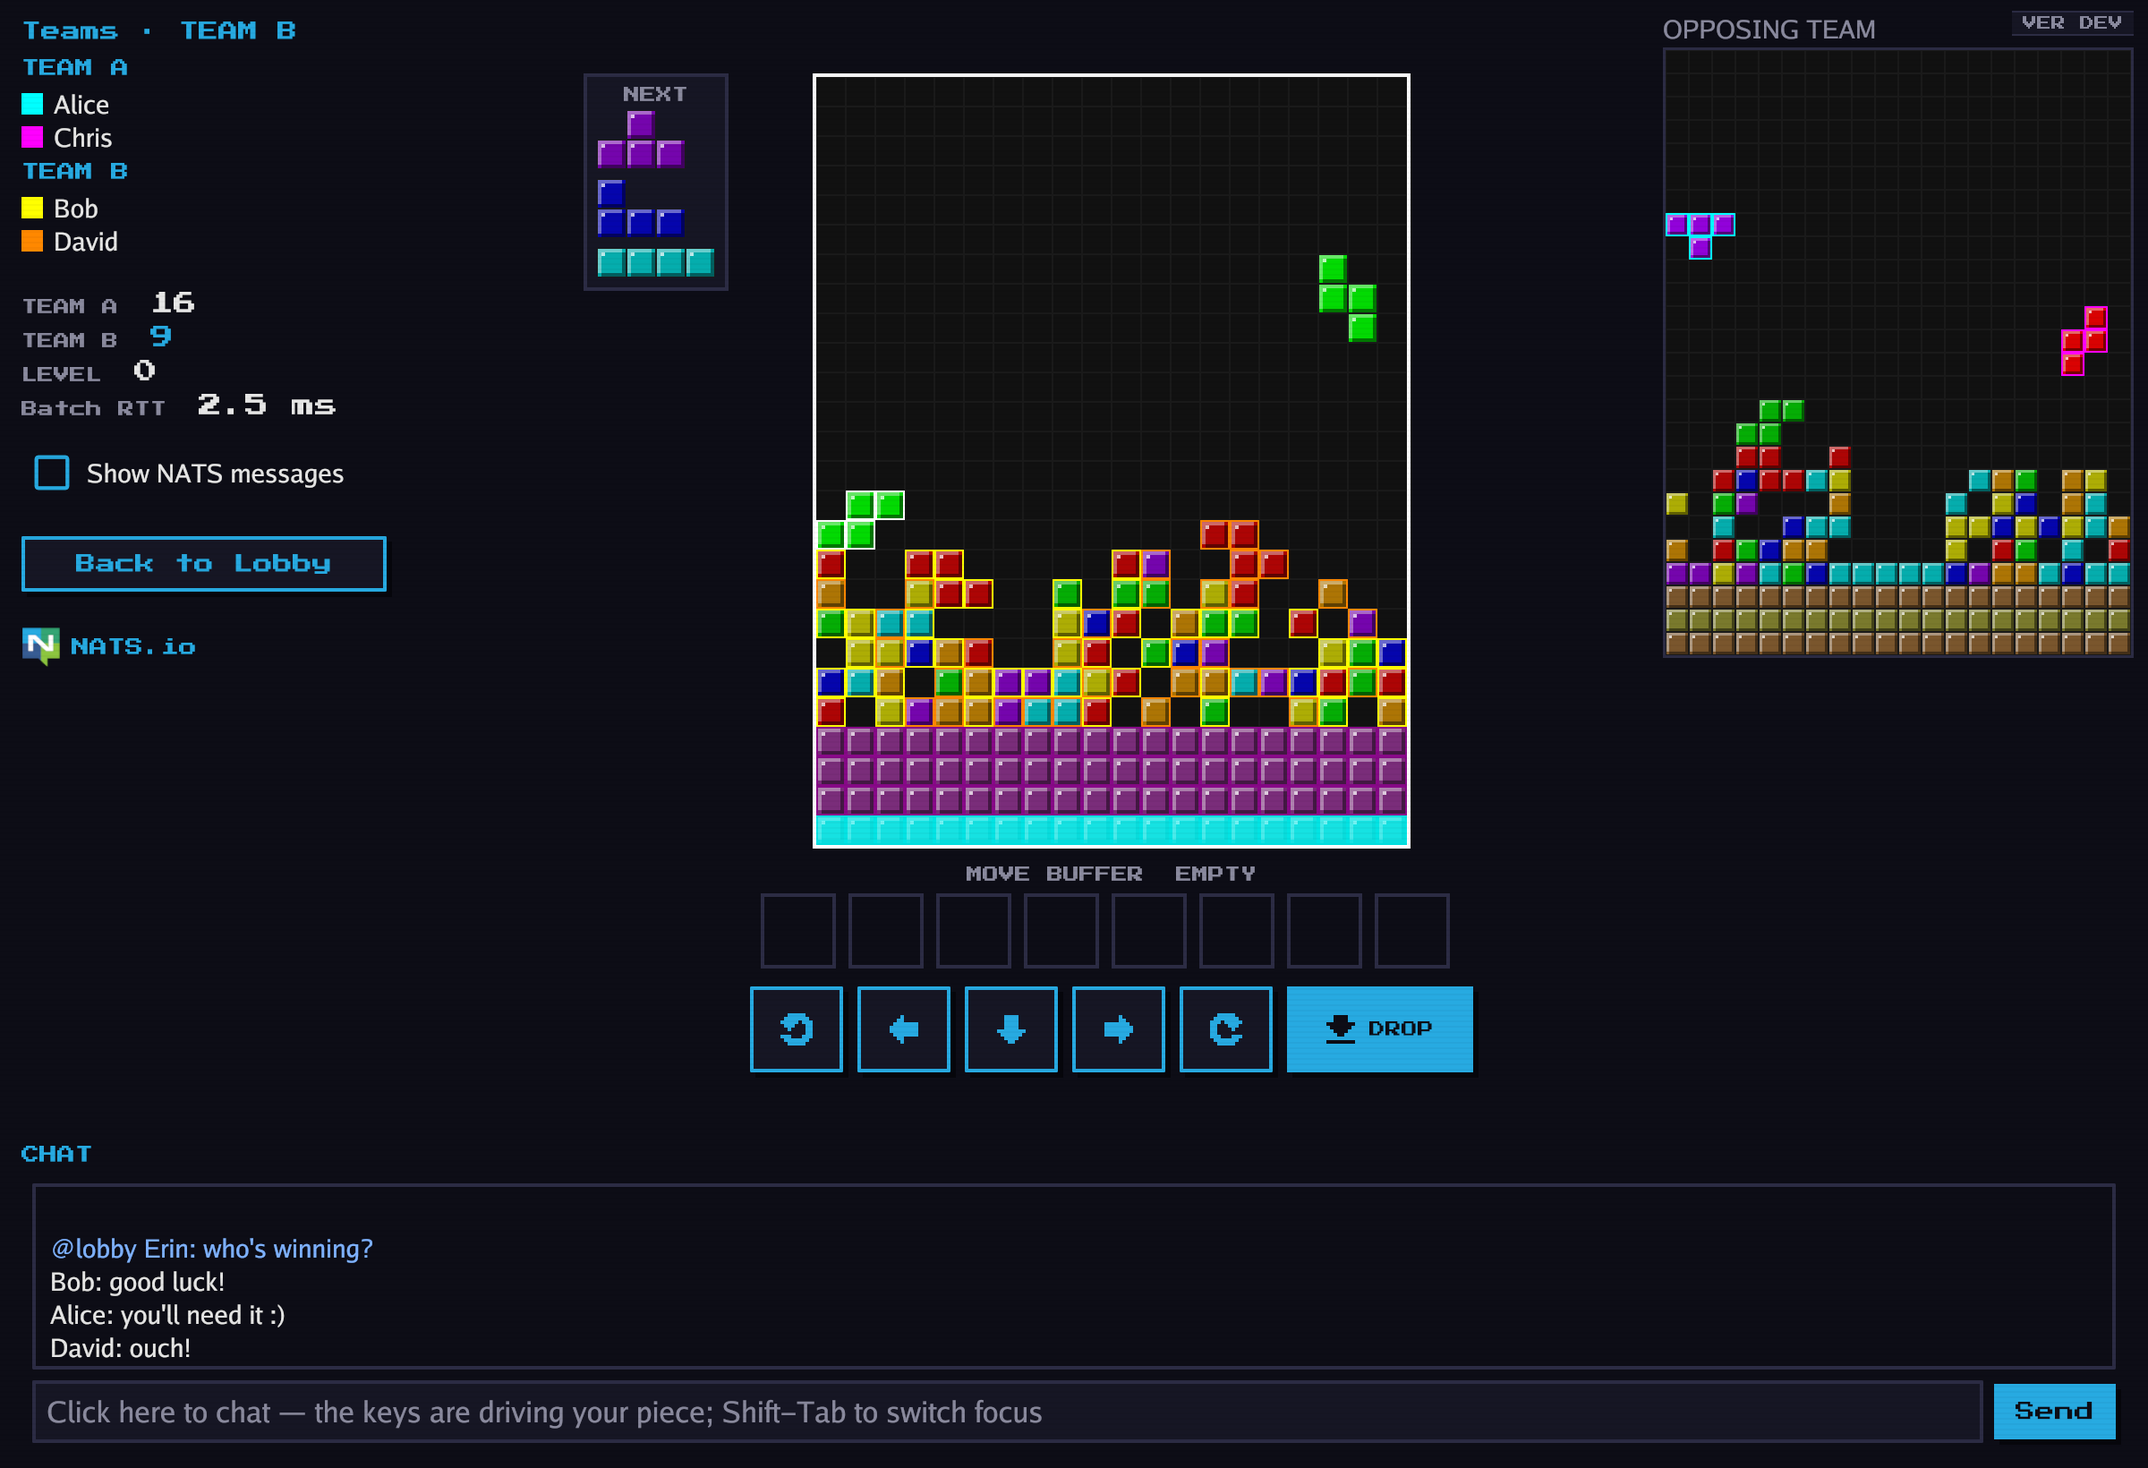
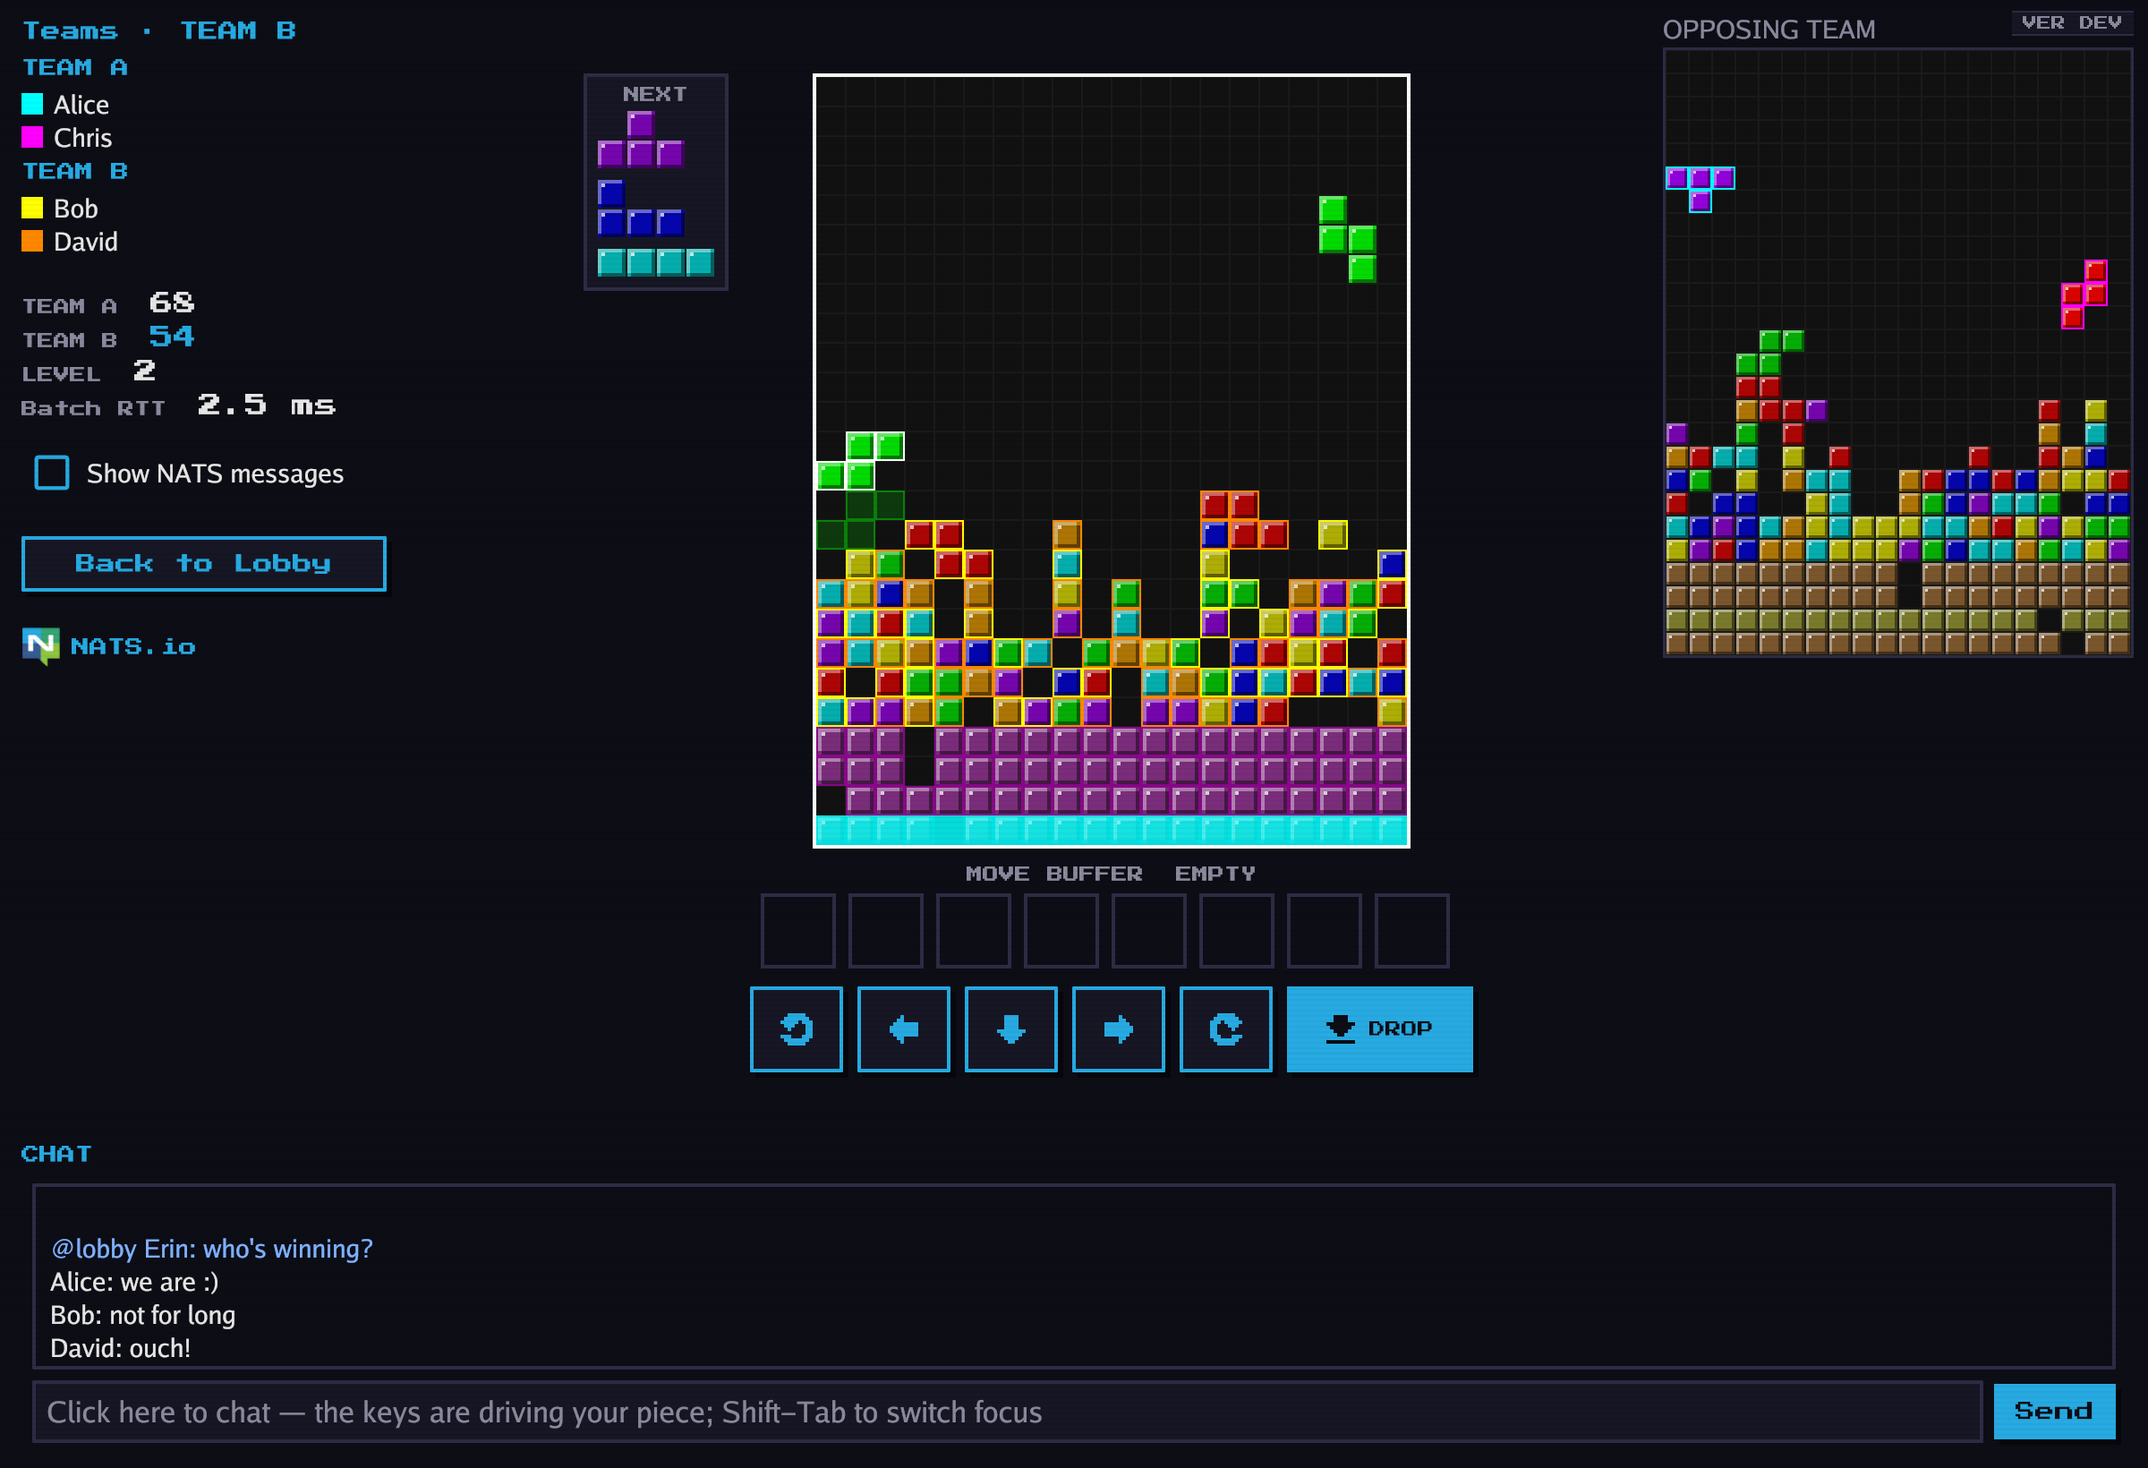
Update README screenshots

diff --git a/internal/nativeui/readme_screenshots_test.go b/internal/nativeui/readme_screenshots_test.go
@@ -1,13 +1,16 @@
 package nativeui
 
-// Opt-in README screenshot capture: runs a REAL 2v2 teams game against an
-// embedded JetStream server (four player engines plus a spectator, live
-// gravity, pre-filled stacks and garbage rows published cell by cell, a fresh
-// garbage row delivered through the real register → gated-shrink protocol)
+// Opt-in README screenshot capture: runs a REAL 2v2 teams game with
+// Guideline-style garbage — one hole per garbage row, clean (the rows of one
+// raise share their hole column, so a raise's holes line up into a well) and
+// attacks by the Guideline table — against an embedded JetStream server
+// (four player engines plus a spectator, live gravity, pre-filled stacks and
+// garbage raises published cell by cell, a fresh garbage row delivered
+// through the real register → gated-shrink protocol that punches its hole)
 // and renders the spectator and player game screens at 2x via a headless GPU
-// window, frozen on the moment Team A clears a line and Team B receives the
-// garbage row that clear sends. Skipped unless FW_SNAPSHOT_DIR is set (needs a
-// GPU):
+// window, frozen on the moment Team A clears a double and the garbage row
+// that clear sends lands on Team B. Skipped unless FW_SNAPSHOT_DIR is set
+// (needs a GPU):
 //
 //	FW_SNAPSHOT_DIR=. go test ./internal/nativeui/ -run TestCaptureREADMEScreenshots
 //
@@ -42,14 +45,32 @@ import (
 
 const shotW, shotH = 2400, 1640 // 1200x820 dp at 2x for crisp README images
 
-// The staged moment: Alice (team A, player 0) has just dropped an I piece flat
-// into the 4-wide slot at clearCol, completing the row right above team A's
-// garbage. That row strobes white on team A's board while the garbage row her
-// clear sends lands — and strobes in her color — on team B's board.
+// The staged moment: Alice (team A, player 0) has just dropped an O piece
+// into the two-wide, two-deep slot at clearCol, completing the two rows right
+// above team A's garbage — a double, the smallest clear that attacks under
+// the Guideline table (a single sends nothing). Both rows strobe white on
+// team A's board while the garbage row her double sends lands — and strobes
+// in her color — on team B's board.
 const (
-	clearCol   = 8 // first column of the slot the I piece drops into
-	clearWidth = 4
+	clearCol   = 8 // first column of the slot the O piece drops into
+	clearWidth = 2 // the slot is two columns wide...
+	clearRows  = 2 // ...and two rows deep: the O piece completes both, a double
 )
+
+// raise is one garbage attack from an earlier exchange as it sits on a team
+// board: rows rows sent by a clear of player by. The game raises clean
+// Guideline garbage — one hole per row — and the rows of one raise share
+// their hole column, so a raise's holes line up into a well.
+type raise struct{ by, rows int }
+
+// raisedRows is the number of garbage rows a list of raises stacks up.
+func raisedRows(raises []raise) int {
+	n := 0
+	for _, r := range raises {
+		n += r.rows
+	}
+	return n
+}
 
 // publishCell publishes one cell of a team board.
 func publishCell(t *testing.T, js jetstream.JetStream, gameID string, team, row, col int, c game.Cell) {
@@ -64,36 +85,53 @@ func publishCell(t *testing.T, js jetstream.JetStream, gameID string, team, row,
 }
 
 // prefillTeamBoard publishes a plausible mid-game state onto one team board:
-// permanent garbage rows at the bottom (one per entry of garbageBy, bottom
-// row first, each stamped with the attacker whose clear sent it) and, above
-// them, a ragged stack — per-column random heights with holes, random piece
-// colors, cells owned by that team's two players (global roster indices
-// team*2 and team*2+1). The lowest stack row never comes out complete on its
-// own: with slot set it is full except for the clearCol slot, which stays
-// open all the way up — the well the staged I piece drops into; without it, a
-// hole is forced somewhere along it.
-func prefillTeamBoard(t *testing.T, js jetstream.JetStream, gameID string, team int, garbageBy []int, slot bool, rng *rand.Rand) {
+// garbage raises at the bottom (bottom — the most recent — first, each
+// stamped with the attacker whose clear sent it, each of its rows punched
+// with the raise's one shared hole) and, above them, a ragged stack —
+// per-column random heights with holes, random piece colors, cells owned by
+// that team's two players (global roster indices team*2 and team*2+1). The
+// lowest stack rows never come out complete on their own: with slot set the
+// bottom clearRows rows are full except for the clearCol slot, which stays
+// open all the way up — the slot the staged O piece drops into; without it,
+// a hole is forced somewhere along the floor row.
+func prefillTeamBoard(t *testing.T, js jetstream.JetStream, gameID string, team int, raises []raise, slot bool, rng *rand.Rand) {
 	t.Helper()
 	width := config.TeamBoardWidth(2)
-	bottom := config.TeamTotalRows(2) - 1
-	for i, by := range garbageBy {
-		for col := 0; col < width; col++ {
-			publishCell(t, js, gameID, team, bottom-i, col, game.Cell{
-				Occupied: true, PieceType: game.PieceO, Adversarial: true, PlayerIdx: by,
-			})
+	row := config.TeamTotalRows(2) - 1 // the bottom row
+	prevHole := -1
+	for _, r := range raises {
+		// One hole column per raise — never the column of the raise right
+		// below it, so the per-raise draw shows, and on the slotted board
+		// outside the slot, so the staged piece lands on garbage, not over
+		// a hole.
+		hole := rng.Intn(width)
+		for hole == prevHole || (slot && hole >= clearCol && hole < clearCol+clearWidth) {
+			hole = rng.Intn(width)
+		}
+		prevHole = hole
+		for k := 0; k < r.rows; k++ {
+			for col := 0; col < width; col++ {
+				if col == hole {
+					continue
+				}
+				publishCell(t, js, gameID, team, row, col, game.Cell{
+					Occupied: true, PieceType: game.PieceO, Adversarial: true, PlayerIdx: r.by,
+				})
+			}
+			row--
 		}
 	}
-	floor := bottom - len(garbageBy) // lowest stack row, right above the garbage
+	floor := row // lowest stack row, right above the garbage
 	forcedHole := rng.Intn(width)
 	for col := 0; col < width; col++ {
 		if slot && col >= clearCol && col < clearCol+clearWidth {
 			continue
 		}
-		h := 2 + rng.Intn(5) // stack height 2..6 above the garbage
+		h := 3 + rng.Intn(5) // stack height 3..7 above the garbage: the game has been going on for a while
 		for d := 0; d < h; d++ {
 			switch {
-			case d == 0 && slot:
-				// the floor row is the one the I piece completes: no holes
+			case slot && d < clearRows:
+				// the slot rows are the ones the O piece completes: no holes
 			case d == 0 && col == forcedHole, rng.Intn(100) < 18:
 				continue // holes keep the rows incomplete and the stack ragged
 			}
@@ -213,7 +251,12 @@ func TestCaptureREADMEScreenshots(t *testing.T) {
 	meta := config.GameMeta{
 		GameID: gameID, Mode: config.ModeTeams, PlayerCount: 4, TeamSize: 2,
 		NextCount: 3, // the player view shows the HUD's NEXT preview panel
-		Seed:      7, Status: config.GameStatusInProgress,
+		// Guideline-style garbage: every garbage row comes with one hole,
+		// the rows of one raise share it (RandomGarbageHoles off), and a
+		// clear attacks by the Guideline table — the victims' engines raise
+		// the staged attack's row under exactly these rules.
+		GarbageHoles: 1, GuidelineGarbage: true,
+		Seed: 7, Status: config.GameStatusInProgress,
 		CreatorID: "Alice", CreatedAt: time.Now(), StartedAt: time.Now(),
 	}
 	data, _ := json.Marshal(meta)
@@ -221,18 +264,20 @@ func TestCaptureREADMEScreenshots(t *testing.T) {
 		t.Fatal(err)
 	}
 
-	// Both teams already carry a few rows of garbage from earlier exchanges:
-	// team A (Alice + Chris) three rows sent by team B — David's, Bob's and
-	// David's again, bottom up, so the per-sender framing shows — and team B
-	// (Bob + David) three rows, all sent by Chris, so the row about to land
-	// from Alice stands out in her color. Team A's stack keeps the slot open
-	// for the staged clear.
-	garbageA, garbageB := []int{3, 2, 3}, []int{1, 1, 1}
+	// Both teams already carry garbage from earlier exchanges, listed bottom
+	// (the most recent raise) up: team A (Alice + Chris) four rows — David's
+	// double, Bob's double, then David's triple, whose two rows share their
+	// hole — so the per-sender framing and the per-raise well both show; and
+	// team B (Bob + David) three rows, all Chris's — a double over a triple —
+	// so the row about to land from Alice stands out in her color. Team A's
+	// stack keeps the slot open for the staged double.
+	garbageA := []raise{{3, 1}, {2, 1}, {3, 2}}
+	garbageB := []raise{{1, 1}, {1, 2}}
 	rng := rand.New(rand.NewSource(3))
 	prefillTeamBoard(t, js, gameID, 0, garbageA, true, rng)
 	prefillTeamBoard(t, js, gameID, 1, garbageB, false, rng)
 	height := config.TeamTotalRows(2)
-	floorA := height - 1 - len(garbageA) // team A's lowest stack row: the one the I piece completes
+	floorA := height - 1 - raisedRows(garbageA) // team A's lowest stack row: the bottom row of the slot
 
 	// Four player engines (team A: Alice+Chris, team B: Bob+David) and a
 	// spectator engine, all consuming the real game stream.
@@ -295,9 +340,10 @@ func TestCaptureREADMEScreenshots(t *testing.T) {
 	// Every replica we draw from must hold the pre-attack boards before the
 	// screens seed their garbage detection — and no row may be complete yet
 	// (the prefill is seeded, so a complete row here means the seed changed).
+	rowsA, rowsB := raisedRows(garbageA), raisedRows(garbageB)
 	waitFor(t, "pre-attack boards", func() bool {
-		return garbageRowsOf(spec, 0) == len(garbageA) && garbageRowsOf(spec, 1) == len(garbageB) &&
-			garbageRowsOf(bob, 0) == len(garbageA) && garbageRowsOf(bob, 1) == len(garbageB)
+		return garbageRowsOf(spec, 0) == rowsA && garbageRowsOf(spec, 1) == rowsB &&
+			garbageRowsOf(bob, 0) == rowsA && garbageRowsOf(bob, 1) == rowsB
 	})
 	for team := 0; team < config.TeamCount; team++ {
 		if rows := completedRowsOf(spec, team); len(rows) > 0 {
@@ -313,12 +359,15 @@ func TestCaptureREADMEScreenshots(t *testing.T) {
 	}
 	chat := []lobby.ChatMessage{
 		{Name: "Erin", Text: "who's winning?"}, // lobby line, folded in as @lobby
-		{Name: "Bob", Text: "good luck!", GameID: gameID},
-		{Name: "Alice", Text: "you'll need it :)", GameID: gameID},
+		{Name: "Alice", Text: "we are :)", GameID: gameID},
+		{Name: "Bob", Text: "not for long", GameID: gameID},
 		{Name: "David", Text: "ouch!", GameID: gameID},
 	}
-	teamScores := [config.TeamCount]int{16, 9} // team A's clear just scored its two players
-	teamLevels := [config.TeamCount]int{1, 0}
+	// A game well under way: teams score two points a line (one per
+	// teammate) and climb a level every ten lines — team A is 34 lines in,
+	// its double just counted, team B 27.
+	teamScores := [config.TeamCount]int{68, 54}
+	teamLevels := [config.TeamCount]int{3, 2}
 
 	w, err := headless.NewWindow(shotW, shotH)
 	if err != nil {
@@ -346,26 +395,31 @@ func TestCaptureREADMEScreenshots(t *testing.T) {
 	bobApp.gamePlayers = players
 	bobApp.teamScores = teamScores
 	bobApp.teamLevels = teamLevels
-	bobApp.level = 0
+	bobApp.level = teamLevels[1] // a team board's level is the team's
 	bobApp.rtt = 2500 * time.Microsecond
 	bobApp.chatLog = chat
 	layoutOnly(bobApp, time.Now())
 
-	// The moment. Alice's I piece lands flat in the slot and completes team
-	// A's floor row (its cells published locked, as her hard drop's lock
-	// would be), and her clear's attack advances team B's garbage register
-	// by one row — which Bob's and David's engines apply through the real
-	// gated shrink cascade: the stack rises, the new row fills the bottom.
-	for col := clearCol; col < clearCol+clearWidth; col++ {
-		publishCell(t, js, gameID, 0, floorA, col, game.Cell{Occupied: true, PieceType: game.PieceI, PlayerIdx: 0})
+	// The moment. Alice's O piece lands in the slot and completes both of
+	// team A's floor rows — a double (its cells published locked, as her
+	// hard drop's lock would be) — and the attack the Guideline table owes
+	// for it advances team B's garbage register by one row, which Bob's and
+	// David's engines apply through the real gated shrink cascade: the stack
+	// rises, the new row fills the bottom, minus the one hole the cascade
+	// punches in it.
+	for d := 0; d < clearRows; d++ {
+		for col := clearCol; col < clearCol+clearWidth; col++ {
+			publishCell(t, js, gameID, 0, floorA-d, col, game.Cell{Occupied: true, PieceType: game.PieceO, PlayerIdx: 0})
+		}
 	}
-	reg, _ := json.Marshal(engine.GarbageRegister{Total: 1, By: 0})
+	attack := game.AttackRows(clearRows, meta.GuidelineGarbage)
+	reg, _ := json.Marshal(engine.GarbageRegister{Total: attack, By: 0})
 	if _, err := js.Publish(ctx, config.TeamGarbageSubject(gameID, 1), reg); err != nil {
 		t.Fatal(err)
 	}
-	landedB := len(garbageB) + 1
+	landedB := rowsB + attack
 	waitFor(t, "the clear and the landed garbage row on every replica", func() bool {
-		return len(completedRowsOf(spec, 0)) == 1 && len(completedRowsOf(bob, 0)) == 1 &&
+		return len(completedRowsOf(spec, 0)) == clearRows && len(completedRowsOf(bob, 0)) == clearRows &&
 			garbageRowsOf(spec, 1) == landedB && garbageRowsOf(bob, 1) == landedB
 	})
 
@@ -374,13 +428,17 @@ func TestCaptureREADMEScreenshots(t *testing.T) {
 	// (one layout pass to observe it, then the frame drawn at the strobe's
 	// epoch, i.e. lit). The line-clear strobe is the clearing team's own
 	// celebration — the screen only strobes it for players, never on a
-	// spectator's boards — so it is staged on the completed row for the
+	// spectator's boards — so it is staged on the completed rows for the
 	// picture.
 	layoutOnly(specApp, time.Now())
 	specApp.mu.Lock()
 	landed, ok := specApp.specRowStrobes[1][height-1]
 	if ok {
-		specApp.specRowStrobes[0] = map[int]rowStrobe{floorA: {start: landed.start, col: colStrobe}}
+		cleared := make(map[int]rowStrobe, clearRows)
+		for d := 0; d < clearRows; d++ {
+			cleared[floorA-d] = rowStrobe{start: landed.start, col: colStrobe}
+		}
+		specApp.specRowStrobes[0] = cleared
 	}
 	specApp.mu.Unlock()
 	if !ok {

diff --git a/README.md b/README.md
@@ -2,7 +2,7 @@
 
 ![Jetris-screenshot-1.png](Jetris-screenshot-1.png)
 
-*Spectating a 2v2 teams game: Team A has just completed a line (flashing white) and the garbage line that clear sends is landing at the bottom of Team B's playfield (flashing in Alice's cyan). The greyed-out rows at the bottom of each playfield are garbage lines from earlier exchanges, each framed in the color of the player whose line clear sent it.*
+*Spectating a 2v2 teams game with Guideline garbage, a while in: Team A has just completed two lines at once (a double, flashing white) and the garbage line that clear sends under the Guideline table is landing at the bottom of Team B's playfield (flashing in Alice's cyan). The greyed-out rows at the bottom of each playfield are garbage lines from earlier exchanges, each framed in the color of the player whose line clear sent it. Every garbage line comes with one hole, and the lines of one attack line up their holes into a well — fill it and they clear like any other line.*
 
 **An example of a peer-to-peer distributed blackboard system built using 'nothing but [NATS](https://nats.io)' for humans or agents to cooperate or compete towards a common goal and disguised as a fun real-time, multiplayer, guideline-style cooperative/competitive block-stacking game**
 
